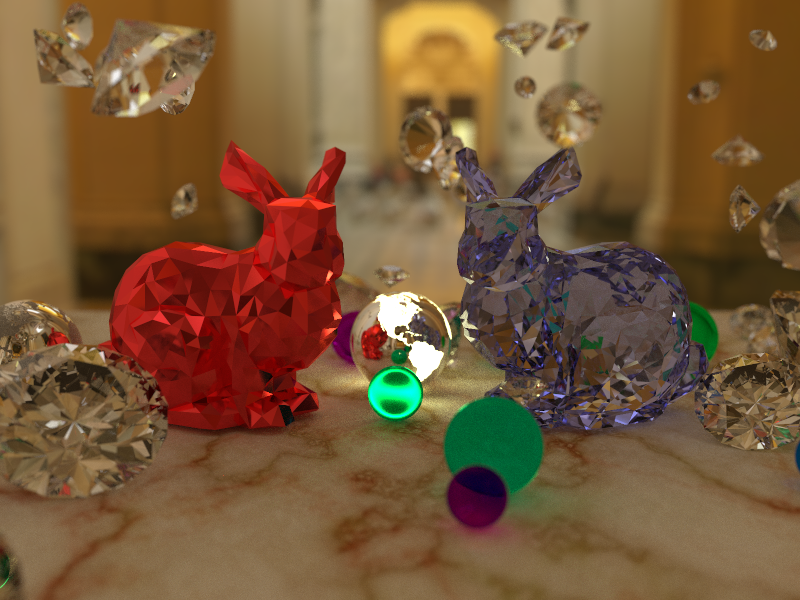
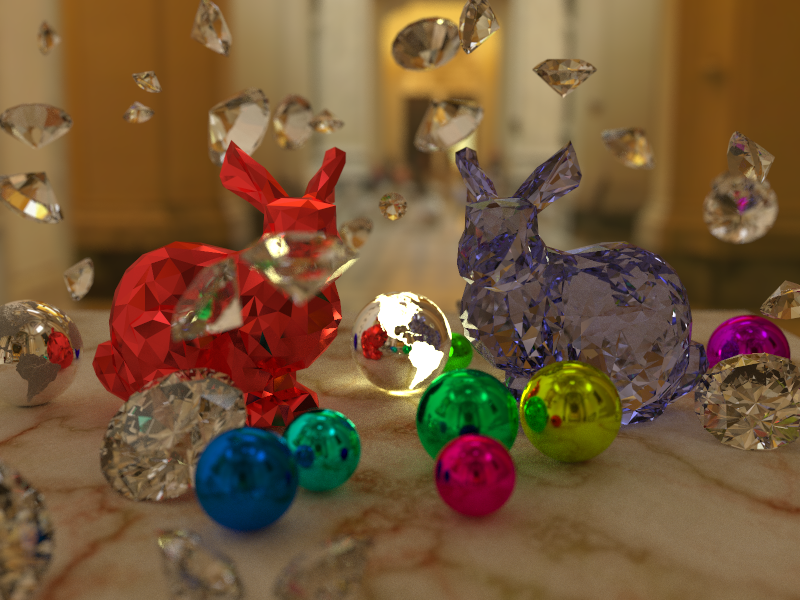
Modify Scene

diff --git a/src/main.rs b/src/main.rs
@@ -37,7 +37,7 @@ use color::{Color, hsv_to_rgb};
 use loader::ObjLoader;
 
 fn render() {
-    let seed: &[_] = &[2000, 3, 4, 54];
+    let seed: &[_] = &[870, 2000, 304, 3];
     let mut rng: StdRng = SeedableRng::from_seed(seed);
 
     let mut imgbuf = image::ImageBuffer::new(800, 600);
@@ -161,7 +161,7 @@ fn render() {
         ),
     };
 
-    // ビー玉
+    // 金属の球体
     let mut count = 0;
     while count < 8 {
         let px = rng.gen_range(-2.5, 3.5);
@@ -173,10 +173,10 @@ fn render() {
             center: Vector3::new(px, r + py, pz),
             radius: r,
             material: Material {
-                surface: SurfaceType::GGXReflection { refractive_index: 1.2 },
-                albedo: Texture::from_color(hsv_to_rgb(Color::new(rng.gen_range(0.2, 0.95), 1.0, 1.0))),
+                surface: SurfaceType::GGX,
+                albedo: Texture::from_color(hsv_to_rgb(Color::new(0.2 + 0.1 * count as f64, 1.0, 1.0))),
                 emission: Texture::black(),
-                roughness: Texture::from_color(Color::from_one(rng.gen_range(0.0, 0.02))),
+                roughness: Texture::from_color(Color::from_one(rng.gen_range(0.0, 0.2))),
             },
         }))) {
             count += 1;
